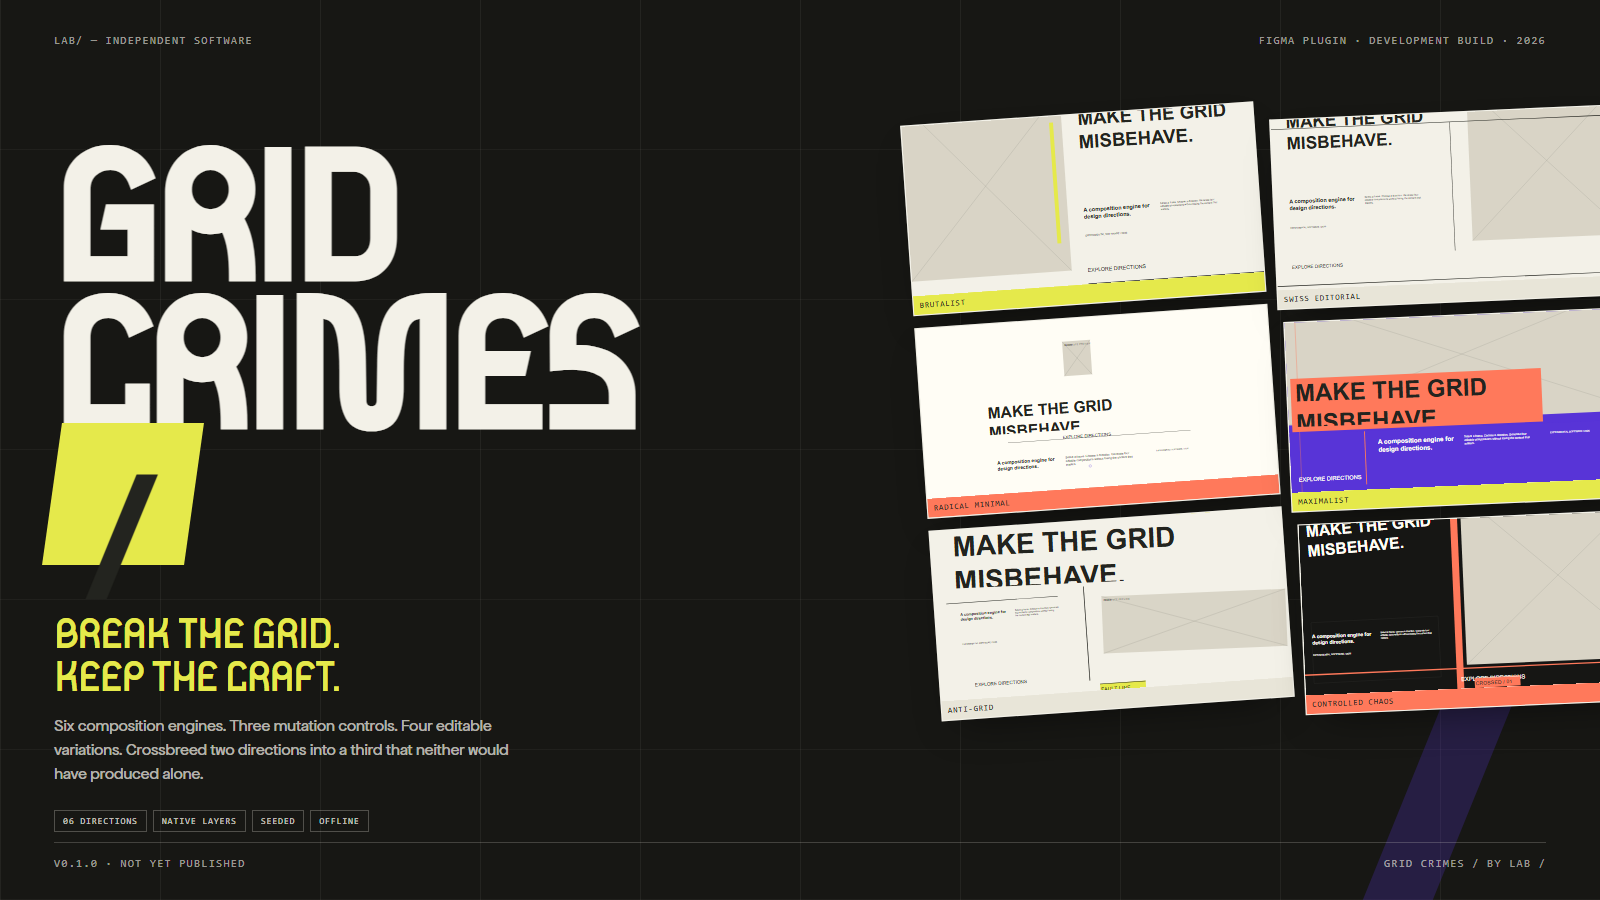
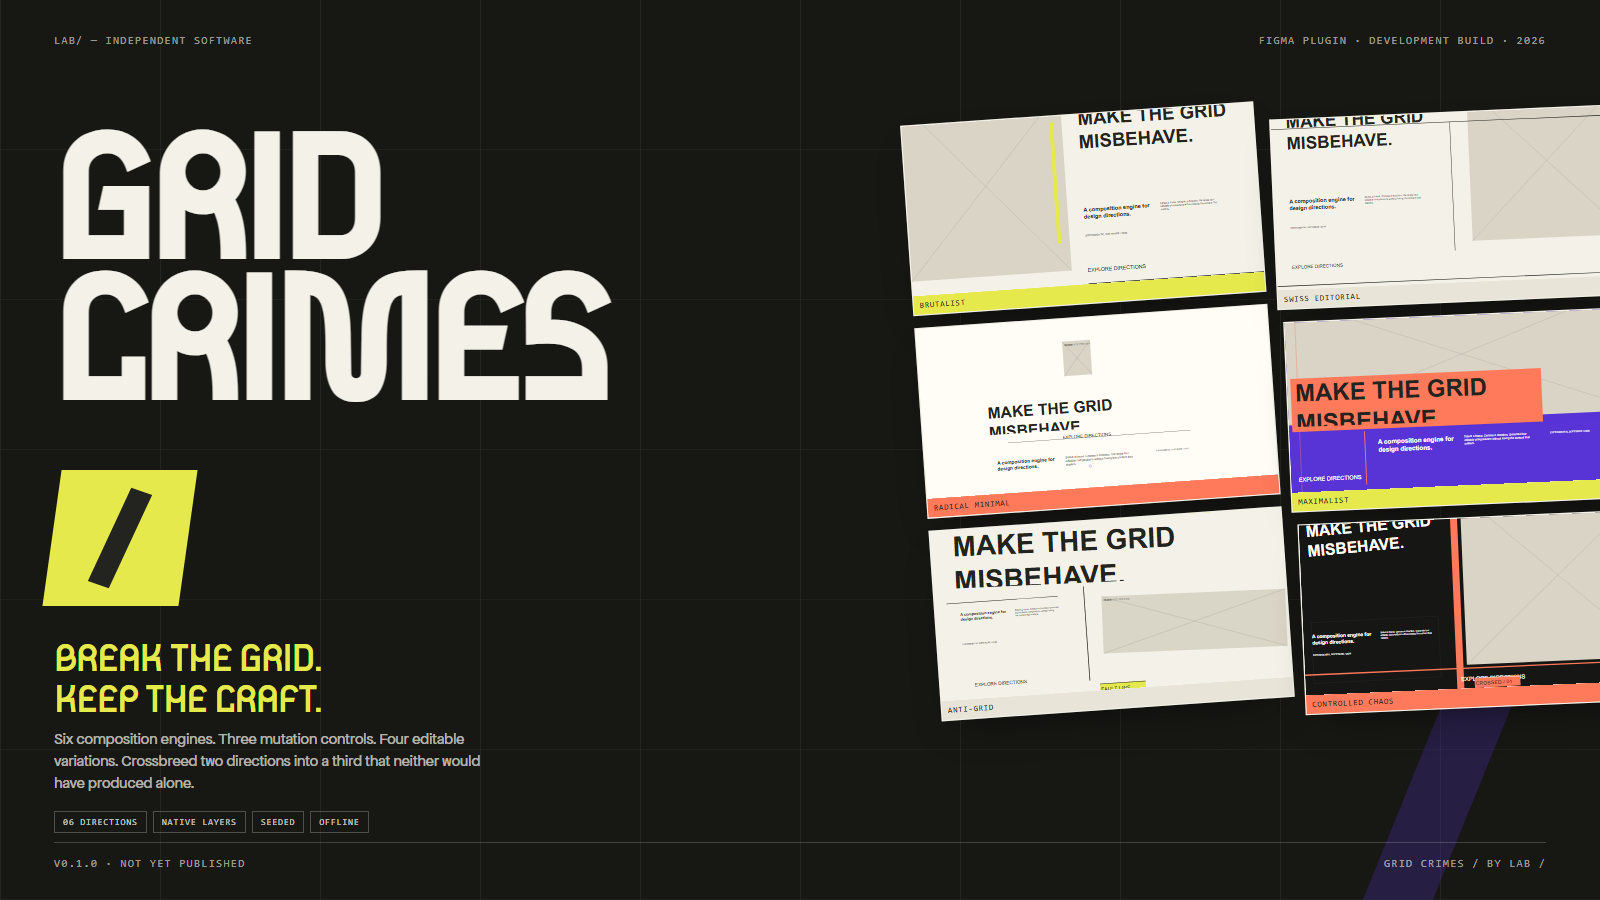
Refine GRID CRIMES launch imagery and add generated studio artwork

Changed region(s): [[0.0312, 0.1244, 0.4062, 0.5911], [0.0312, 0.6222, 0.3125, 0.9333], [0.0, 0.5911, 0.0312, 0.6222]]

diff --git a/app/products/grid-crimes/page.tsx b/app/products/grid-crimes/page.tsx
@@ -90,12 +90,13 @@ export default async function GridCrimesProductPage() {
         </div>
         <figure className="gc-cover">
           <Image
-            src="/products/grid-crimes/cover.png"
+            src="/products/grid-crimes/cover-v2.png"
             alt="GRID CRIMES/ cover artwork: oversized type, acid slash and six generated layout directions."
             width={1600}
             height={900}
             priority
             sizes="(max-width: 980px) 90vw, 46vw"
+            unoptimized
           />
           <figcaption>
             <span>GRID CRIMES / 0.1.0</span>
@@ -153,30 +154,32 @@ export default async function GridCrimesProductPage() {
           <div className="gc-shot-grid">
             <figure className="gc-shot">
               <Image
-                src="/products/grid-crimes/ui-configure.png"
+                src="/products/grid-crimes/ui-configure-v2.png"
                 alt="GRID CRIMES/ configuration panel: detected roles, six direction tiles, chaos, density and hierarchy controls."
-                width={440}
-                height={1400}
-                sizes="(max-width: 650px) 90vw, 28vw"
+                width={880}
+                height={2000}
+                sizes="(max-width: 650px) 90vw, 34vw"
                 loading="eager"
+                unoptimized
               />
               <figcaption>
                 <b>Configure</b>
-                <span>Shipped UI bundle · real engine plans</span>
+                <span>Built UI · top of panel</span>
               </figcaption>
             </figure>
             <figure className="gc-shot">
               <Image
-                src="/products/grid-crimes/ui-results.png"
+                src="/products/grid-crimes/ui-results-v2.png"
                 alt="GRID CRIMES/ results panel showing four generated variations with scores, seeds and edit actions."
-                width={440}
-                height={1000}
-                sizes="(max-width: 650px) 90vw, 28vw"
+                width={880}
+                height={2000}
+                sizes="(max-width: 650px) 90vw, 34vw"
                 loading="eager"
+                unoptimized
               />
               <figcaption>
                 <b>Results</b>
-                <span>Four variations · live thumbnails</span>
+                <span>Real exports · top of panel</span>
               </figcaption>
             </figure>
           </div>
@@ -203,12 +206,13 @@ export default async function GridCrimesProductPage() {
           </div>
           <figure className="gc-directions-image">
             <Image
-              src="/products/grid-crimes/directions.png"
+              src="/products/grid-crimes/directions-v2.png"
               alt="Direction sheet: one source composition and six generated layout directions."
               width={1600}
               height={900}
               sizes="(max-width: 980px) 94vw, 74vw"
               loading="eager"
+              unoptimized
             />
             <figcaption>
               <span>One source · six engines · seed 2718</span>
@@ -262,14 +266,15 @@ export default async function GridCrimesProductPage() {
           </div>
           <figure className="gc-cross-shot">
             <Image
-              src="/products/grid-crimes/ui-crossbreed.png"
+              src="/products/grid-crimes/ui-crossbreed-v2.png"
               alt="GRID CRIMES/ crossbreed workspace with two parents, inheritance slider and inherited design parameters."
-              width={440}
-              height={1000}
+              width={880}
+              height={2000}
               sizes="(max-width: 650px) 90vw, 300px"
               loading="eager"
+              unoptimized
             />
-            <figcaption>Crossbreed / equal inheritance</figcaption>
+            <figcaption>Crossbreed / equal inheritance · top of panel</figcaption>
           </figure>
         </div>
       </section>
@@ -465,3 +470,4 @@ export default async function GridCrimesProductPage() {
     </div>
   );
 }
+

diff --git a/app/styles/grid-crimes.css b/app/styles/grid-crimes.css
@@ -75,19 +75,30 @@
 }
 
 .gc-wordmark i {
-  display: inline-grid;
-  place-items: center;
+  display: inline-block;
+  position: relative;
   width: 0.68em;
   height: 0.68em;
   margin-top: 0.02em;
   background: var(--gc-acid);
-  color: var(--gc-ink);
+  color: transparent;
   font-style: normal;
-  font-family: var(--lab-expressive);
   font-size: 0.72em;
   line-height: 1;
+  overflow: hidden;
   transform: skewX(-8deg);
   border: 1px solid var(--gc-ink);
+}
+
+.gc-wordmark i::after {
+  content: "";
+  position: absolute;
+  left: 46%;
+  top: 20%;
+  width: 8%;
+  height: 60%;
+  background: var(--gc-ink);
+  transform: rotate(18deg);
 }
 
 .gc-tagline {
@@ -164,6 +175,8 @@
   display: block;
   width: 100%;
   height: auto;
+  aspect-ratio: 16 / 9;
+  object-fit: cover;
 }
 
 .gc-cover figcaption {
@@ -288,6 +301,9 @@
   display: block;
   width: 100%;
   height: auto;
+  aspect-ratio: 4 / 5;
+  object-fit: cover;
+  object-position: top center;
   border-bottom: 1px solid var(--gc-ink);
 }
 
@@ -402,6 +418,9 @@
   display: block;
   width: 100%;
   height: auto;
+  aspect-ratio: 4 / 5;
+  object-fit: cover;
+  object-position: top center;
 }
 
 .gc-cross-shot figcaption {
@@ -677,6 +696,23 @@
 
 /* Product listing feature ------------------------------------- */
 
+.vector-feature > div:first-child {
+  position: relative;
+  min-height: 420px;
+  background: #f3f1e8;
+  overflow: hidden;
+}
+
+.vector-feature > div:first-child img {
+  position: absolute;
+  inset: 0;
+  display: block;
+  width: 100%;
+  height: 100%;
+  object-fit: cover;
+  object-position: center;
+}
+
 .gc-feature {
   margin-top: 80px;
 }
@@ -684,12 +720,18 @@
 .gc-feature > div:first-child {
   background: var(--lab-ink);
   overflow: hidden;
+  position: relative;
+  min-height: 420px;
 }
 
 .gc-feature > div:first-child img {
+  position: absolute;
+  inset: 0;
   display: block;
   width: 100%;
-  height: auto;
+  height: 100%;
+  object-fit: cover;
+  object-position: center;
 }
 
 .gc-feature .gc-feature-status {

diff --git a/app/products/page.tsx b/app/products/page.tsx
@@ -1,6 +1,5 @@
 import Link from "next/link";
 import Image from "next/image";
-import { VectorArtwork } from "@/components/playground/artwork";
 import { Icon } from "@/components/playground/icons";
 import { ComingSoon } from "@/components/playground/coming-soon";
 export const metadata = { title: "Products" };
@@ -16,9 +15,16 @@ export default function Products() {
         Some experiments want a life outside the Lab. A home for the software
         that might get there.
       </p>
-      <article className="product-feature">
+      <article className="product-feature vector-feature">
         <div>
-          <VectorArtwork />
+          <Image
+            src="/products/vector-kitchen-flat-lay.webp"
+            alt="A print-studio flat lay of Vector Kitchen studies: swirling vector ribbons, geometric petal forms and recipe cards in violet, coral and acid yellow."
+            width={1374}
+            height={1145}
+            sizes="(max-width: 980px) 90vw, 54vw"
+            unoptimized
+          />
         </div>
         <div>
           <span className="status">Browser prototype · v0.1</span>
@@ -48,11 +54,12 @@ export default function Products() {
       <article className="product-feature gc-feature">
         <div>
           <Image
-            src="/products/grid-crimes/cover.png"
-            alt="GRID CRIMES/ cover artwork with six generated composition directions."
-            width={1600}
-            height={900}
+            src="/products/grid-crimes/feature-still-life.webp"
+            alt="Six printed composition sheets, registration marks and a black GRID CRIMES card with an acid slash tile arranged on a studio table."
+            width={1374}
+            height={1145}
             sizes="(max-width: 980px) 90vw, 54vw"
+            unoptimized
           />
         </div>
         <div>

diff --git a/plugins/grid-crimes/dist/ui.html b/plugins/grid-crimes/dist/ui.html
@@ -267,17 +267,27 @@ summary:focus-visible,
 }
 
 .wordmark-slash {
-  display: grid;
-  place-items: center;
+  display: block;
+  position: relative;
   width: 21px;
   height: 27px;
   margin-top: 1px;
   background: var(--acid);
-  color: #23241f;
-  font-family: var(--font-display);
-  font-size: 24px;
-  line-height: 1;
+  color: transparent;
+  font-size: 0;
+  overflow: hidden;
   transform: skewX(-8deg);
+}
+
+.wordmark-slash::before {
+  content: "";
+  position: absolute;
+  left: 50%;
+  top: 50%;
+  width: 3px;
+  height: 18px;
+  background: #23241f;
+  transform: translate(-50%, -50%) rotate(18deg);
 }
 
 .wordmark-sub {
@@ -2128,7 +2138,10 @@ input[type="range"]:active::-webkit-slider-thumb {
   .wordmark-slash {
     width: 18px;
     height: 23px;
-    font-size: 20px;
+  }
+  .wordmark-slash::before {
+    height: 15px;
+    width: 2px;
   }
   .panel {
     padding-left: 13px;

diff --git a/plugins/grid-crimes/src/ui/styles.css b/plugins/grid-crimes/src/ui/styles.css
@@ -261,17 +261,27 @@ summary:focus-visible,
 }
 
 .wordmark-slash {
-  display: grid;
-  place-items: center;
+  display: block;
+  position: relative;
   width: 21px;
   height: 27px;
   margin-top: 1px;
   background: var(--acid);
-  color: #23241f;
-  font-family: var(--font-display);
-  font-size: 24px;
-  line-height: 1;
+  color: transparent;
+  font-size: 0;
+  overflow: hidden;
   transform: skewX(-8deg);
+}
+
+.wordmark-slash::before {
+  content: "";
+  position: absolute;
+  left: 50%;
+  top: 50%;
+  width: 3px;
+  height: 18px;
+  background: #23241f;
+  transform: translate(-50%, -50%) rotate(18deg);
 }
 
 .wordmark-sub {
@@ -2122,7 +2132,10 @@ input[type="range"]:active::-webkit-slider-thumb {
   .wordmark-slash {
     width: 18px;
     height: 23px;
-    font-size: 20px;
+  }
+  .wordmark-slash::before {
+    height: 15px;
+    width: 2px;
   }
   .panel {
     padding-left: 13px;

diff --git a/plugins/grid-crimes/assets/README.md b/plugins/grid-crimes/assets/README.md
@@ -5,3 +5,5 @@
 - `fonts/` — Gulax and Apfel Grotezk WOFF2 files plus their SIL OFL license texts. These are the same licensed files used by the LAB/ site. They are embedded into the built UI and are not uploaded anywhere.
 
 The icon and cover were generated from a local Playwright composition using the licensed fonts. The six miniature compositions on the cover are real GRID CRIMES engine plans rendered for the browser.
+
+- `feature-still-life.webp` — 6:5 print-room still life used as the GRID CRIMES feature image on the LAB products page. Source artwork supplied for the preview.

diff --git a/plugins/grid-crimes/RELEASE.md b/plugins/grid-crimes/RELEASE.md
@@ -10,10 +10,11 @@
 
 Additional product screenshots live at `public/products/grid-crimes/`:
 
-- `ui-configure.png`
-- `ui-results.png`
-- `ui-crossbreed.png`
-- `directions.png`
+- `ui-configure-v2.png`
+- `ui-results-v2.png`
+- `ui-crossbreed-v2.png`
+- `directions-v2.png`
+- `feature-still-life.webp`
 
 These are browser-rendered captures of the shipped interface and real engine plans. They are not native Figma screenshots.
 

diff --git a/plugins/grid-crimes/README.md b/plugins/grid-crimes/README.md
@@ -6,7 +6,7 @@ A procedural composition instrument for Figma Design. Select an existing composi
 
 **Status:** local development build, `v0.1.0`. Not published to Figma Community. No plugin ID is invented or hardcoded.
 
-![GRID CRIMES/ results interface](../../public/products/grid-crimes/ui-results.png)
+![GRID CRIMES/ results interface](../../public/products/grid-crimes/ui-results-v2.png)
 
 ---
 
